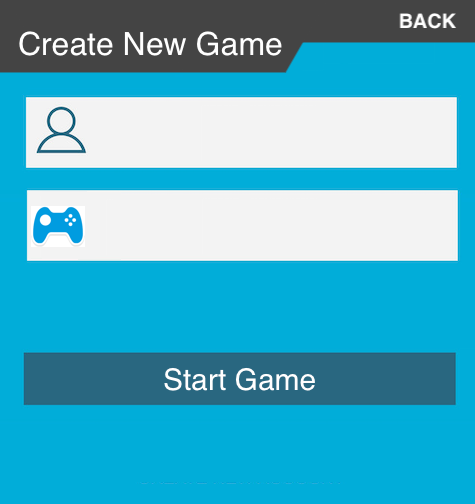
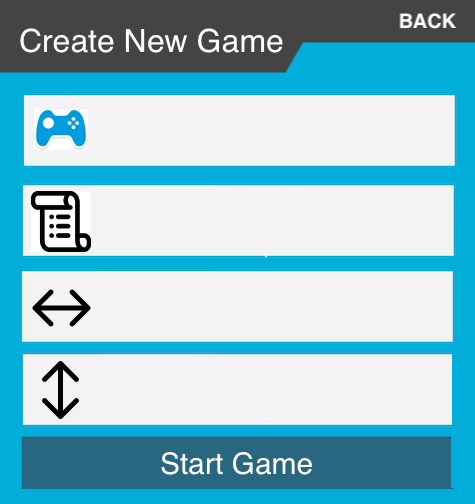
finished off new create game screen

diff --git a/play_game.py b/play_game.py
@@ -680,6 +680,10 @@ def create_new_game_view():
     login_view = pygame.image.load("images/menu/create-new-game.png")
     surface.fill(COLOR_BACKGROUND)
     error_surface = False
+    #game name, ruleset name, width string, height string
+    inputList = ["", "", "", ""]
+    error_str = ""
+    currentlySelectedInputIdx = -1
     
     while True:
         # Clock tick
@@ -696,23 +700,59 @@ def create_new_game_view():
                     option_menu.enable()
                     option_menu.mainloop(playevents)
                     return
+                if e.key == pygame.K_DELETE:
+                    surface.fill(COLOR_BACKGROUND)
+                    surface.blit(login_view, ((WINDOW_SIZE[0] - login_view.get_size()[0]) / 2, (WINDOW_SIZE[1] - login_view.get_size()[1]) / 2))
+                    inputList[currentlySelectedInputIdx] = inputList[currentlySelectedInputIdx] [:len(inputList[currentlySelectedInputIdx])-1]
+            
+                elif e.key == pygame.K_BACKSPACE:
+                    surface.fill(COLOR_BACKGROUND)
+                    surface.blit(login_view, ((WINDOW_SIZE[0] - login_view.get_size()[0]) / 2, (WINDOW_SIZE[1] - login_view.get_size()[1]) / 2))
+                    inputList[currentlySelectedInputIdx] = inputList[currentlySelectedInputIdx] [:len(inputList[currentlySelectedInputIdx])-1]
+
+                else:
+                    # If no special key is pressed, add unicode of key to input_string
+                    inputList[currentlySelectedInputIdx] += e.unicode
             elif e.type == MOUSEBUTTONDOWN:
+                surface.fill(COLOR_BACKGROUND)
+                surface.blit(login_view, ((WINDOW_SIZE[0] - login_view.get_size()[0]) / 2, (WINDOW_SIZE[1] - login_view.get_size()[1]) / 2))
                 error_surface = False
                 mouse_pos = pygame.mouse.get_pos()
                 print(mouse_pos)
-                if mouse_pos[0] in range(186,612) and mouse_pos[1] in range(400,450):
+                if mouse_pos[0] in range(186,612) and mouse_pos[1] in range(480,550):
                     # recover ruleset_name
-                    if len(ruleset_name.get_text()) < 1: 
+                    if inputList[0] == "" or inputList[1] == "" or inputList[2] == "" or inputList[3] == "":
+                        error_surface = True
+                        error_str = "All fields need to be filled out"
                         break
+                    if inputList[2].isdigit() == False or inputList[3].isdigit() == False:
+                        error_surface = True
+                        error_str = "Width and Height both need to be numbers"
+                        break
+                    if int(inputList[2]) < 2 or int(inputList[2]) > 18 or int(inputList[3]) < 2 or int(inputList[3]) > 10:
+                        error_surface = True
+                        error_str = "Min width and height are 2. Max height is 10 and max width is 18"
+                        break
+
                     allRulesets = client.load_existing_rulesets(currentUsername)
                     rulesetNames = [ruleset[0] for ruleset in allRulesets]
-                    if ruleset_name.get_text() not in rulesetNames : # CHECK IF EXISTS
+                    if inputList[1] not in rulesetNames : # CHECK IF EXISTS
                         error_surface = True
+                        error_str = "Ruleset does not exist"
                         break
                     #to pass to the game_view once that is integrated
-                    rulesetObject = [item for item in allRulesets if item[0] == ruleset_name.get_text()][0][1]
-                    create_room(ruleset_name = ruleset_name.get_text(), ruleset_object = jsonpickle.decode(rulesetObject))
+                    rulesetObject = [item for item in allRulesets if item[0] == inputList[1]][0][1]
+                    create_room(ruleset_name = inputList[1], ruleset_object = jsonpickle.decode(rulesetObject))
                     return
+                elif mouse_pos[0] in range(186,612) and mouse_pos[1] in range(400,470):
+                    currentlySelectedInputIdx = 3
+                elif mouse_pos[0] in range(186,612) and mouse_pos[1] in range(320,390):
+                    currentlySelectedInputIdx = 2
+                elif mouse_pos[0] in range(186,612) and mouse_pos[1] in range(230,300):
+                    currentlySelectedInputIdx = 1
+                elif mouse_pos[0] in range(186,612) and mouse_pos[1] in range(140,210):
+                    currentlySelectedInputIdx = 0
+
                 elif mouse_pos[0] in range(562,617) and mouse_pos[1] in range(62,77):
                     option_menu.enable()
                     option_menu.mainloop(playevents)
@@ -723,11 +763,23 @@ def create_new_game_view():
         # blit information to the menu based on user input from above
         surface.blit(login_view, ((WINDOW_SIZE[0] - login_view.get_size()[0]) / 2, (WINDOW_SIZE[1] - login_view.get_size()[1]) / 2))
         if error_surface:
-            ptext.draw("Ruleset name does not exist", (200, 300), sysfontname="arial", color=COLOR_RED, fontsize=35, width = 300)
-        if len(ruleset_name.get_text()) >= 1:
-            surface.blit(ruleset_name.get_surface(), (250,170))  
+            ptext.draw(error_str, (100, 550), sysfontname="arial", color=COLOR_RED, fontsize=35)
+        if inputList[0] == "":
+            surface.blit(MY_FONT.render('Game Name', 1, COLOR_BLACK), (260,160))  
         else:
-            surface.blit(MY_FONT.render('Ruleset', 1, COLOR_BLACK), (250,160))  
+            ptext.draw(inputList[0], (260, 160), sysfontname="arial", color="black", fontsize=35)
+        if inputList[1] == "":
+            surface.blit(MY_FONT.render('Rule Name', 1, COLOR_BLACK), (260,250))  
+        else:
+            ptext.draw(inputList[1], (260, 250), sysfontname="arial", color="black", fontsize=35)
+        if inputList[2] == "":
+            surface.blit(MY_FONT.render('Width', 1, COLOR_BLACK), (260,340))  
+        else:
+            ptext.draw(inputList[2], (260, 340), sysfontname="arial", color="black", fontsize=35)
+        if inputList[3] == "":
+            surface.blit(MY_FONT.render('Height', 1, COLOR_BLACK), (260,420))  
+        else:
+            ptext.draw(inputList[3], (260, 420), sysfontname="arial", color="black", fontsize=35)
 
         pygame.display.flip()
 
